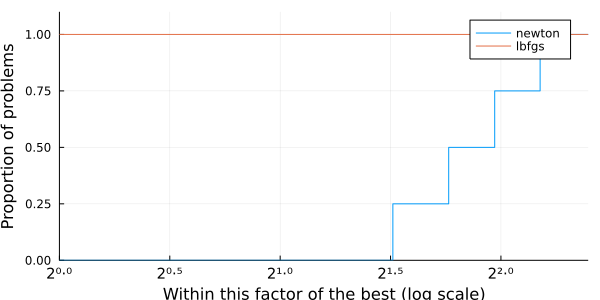
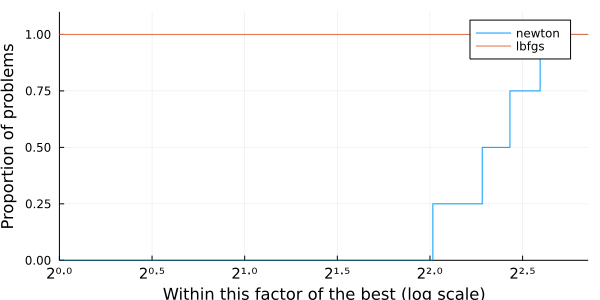
Deploying to gh-pages from  @ dcdb9bae952de26ad7f4052e1809d3c5ec10b59e 🚀

diff --git a/index.html b/index.html
@@ -8,7 +8,7 @@ contour&#40;-2:0.02:2, -0.5:0.02:1.5, &#40;x,y&#41; -&gt; &#40;x - 1&#41;^2 &#43
 nlp &#61; ADNLPModel&#40;
   x -&gt; &#40;x&#91;1&#93; - 1&#41;^2 &#43; 4 * &#40;x&#91;2&#93; - x&#91;1&#93;^2&#41;^2, # function
   &#91;-1.2; 1.0&#93; # starting point
-&#41;</code></pre><pre><code class="plaintext code-output">ADNLPModel - Model with automatic differentiation backend ADNLPModels.ForwardDiffAD{ForwardDiff.GradientConfig{ForwardDiff.Tag{var"#3#4", Float64}, Float64, 2, Vector{ForwardDiff.Dual{ForwardDiff.Tag{var"#3#4", Float64}, Float64, 2}}}}(3, 0, ForwardDiff.GradientConfig{ForwardDiff.Tag{var"#3#4", Float64}, Float64, 2, Vector{ForwardDiff.Dual{ForwardDiff.Tag{var"#3#4", Float64}, Float64, 2}}}((Partials(1.0, 0.0), Partials(0.0, 1.0)), ForwardDiff.Dual{ForwardDiff.Tag{var"#3#4", Float64}, Float64, 2}[Dual{ForwardDiff.Tag{var"#3#4", Float64}}(1.6e-322,2.0e-323,6.9369376057199e-310), Dual{ForwardDiff.Tag{var"#3#4", Float64}}(6.9368770046127e-310,6.93687723239753e-310,1.55557e-319)]))
+&#41;</code></pre><pre><code class="plaintext code-output">ADNLPModel - Model with automatic differentiation backend ADNLPModels.ForwardDiffAD{ForwardDiff.GradientConfig{ForwardDiff.Tag{var"#3#4", Float64}, Float64, 2, Vector{ForwardDiff.Dual{ForwardDiff.Tag{var"#3#4", Float64}, Float64, 2}}}}(3, 0, ForwardDiff.GradientConfig{ForwardDiff.Tag{var"#3#4", Float64}, Float64, 2, Vector{ForwardDiff.Dual{ForwardDiff.Tag{var"#3#4", Float64}, Float64, 2}}}((Partials(1.0, 0.0), Partials(0.0, 1.0)), ForwardDiff.Dual{ForwardDiff.Tag{var"#3#4", Float64}, Float64, 2}[Dual{ForwardDiff.Tag{var"#3#4", Float64}}(0.0,6.9153200153722e-310,6.9153200153722e-310), Dual{ForwardDiff.Tag{var"#3#4", Float64}}(0.0,6.9153199943155e-310,6.9153199943155e-310)]))
   Problem name: Generic
    All variables: ████████████████████ 2      All constraints: ⋅⋅⋅⋅⋅⋅⋅⋅⋅⋅⋅⋅⋅⋅⋅⋅⋅⋅⋅⋅ 0     
             free: ████████████████████ 2                 free: ⋅⋅⋅⋅⋅⋅⋅⋅⋅⋅⋅⋅⋅⋅⋅⋅⋅⋅⋅⋅ 0     
@@ -265,18 +265,18 @@ stats &#61; bmark_solvers&#40;solvers, problems&#41;</code></pre><pre><code clas
  Row │ id     name     nvar   ncon   nequ   status       objective     elapsed_time  iter   dual_feas  primal_feas  neval_obj  neval_grad  neval_cons  neval_cons_lin  neval_cons_nln  neval_jcon  neval_jgrad  neval_jac  neval_jac_lin  neval_jac_nln  neval_jprod  neval_jprod_lin  neval_jprod_nln  neval_jtprod  neval_jtprod_lin  neval_jtprod_nln  neval_hess  neval_hprod  neval_jhess  neval_jhprod  neval_residual  neval_jac_residual  neval_jprod_residual  neval_jtprod_residual  neval_hess_residual  neval_jhess_residual  neval_hprod_residual  extrainfo
      │ Int64  String   Int64  Int64  Int64  Symbol       Float64       Float64       Int64  Float64    Float64      Int64      Int64       Int64       Int64           Int64           Int64       Int64        Int64      Int64          Int64          Int64        Int64            Int64            Int64         Int64             Int64             Int64       Int64        Int64        Int64         Int64           Int64               Int64                 Int64                  Int64                Int64                 Int64                 String
 ─────┼────────────────────────────────────────────────────────────────────────────────────────────────────────────────────────────────────────────────────────────────────────────────────────────────────────────────────────────────────────────────────────────────────────────────────────────────────────────────────────────────────────────────────────────────────────────────────────────────────────────────────────────────────────────────────────────────────────────────────────────────────────────────────────────────────────────────────────────────────
-   1 │     1  Generic      2      0      0  first_order   2.46519e-31      0.500297      1        Inf          0.0          3           4           0               0               0           0            0          0              0              0            0                0                0             0                 0                 0           1            0            0             0               0                   0                     0                      0                    0                     0                     0
-   2 │     2  Generic      2      0      0  first_order   3.74398e-21      0.578367     21        Inf          0.0         50          64           0               0               0           0            0          0              0              0            0                0                0             0                 0                 0          21            0            0             0               0                   0                     0                      0                    0                     0                     0
-   3 │     3  Generic      2      0      0  max_iter     -8.36356          0.463909    100        Inf          0.0        201         301           0               0               0           0            0          0              0              0            0                0                0             0                 0                 0         100            0            0             0               0                   0                     0                      0                    0                     0                     0
-   4 │     4  Generic      2      0      0  first_order   1.43195          0.540424      5        Inf          0.0         12          16           0               0               0           0            0          0              0              0            0                0                0             0                 0                 0           5            0            0             0               0                   0                     0                      0                    0                     0                     0
+   1 │     1  Generic      2      0      0  first_order   2.46519e-31      0.5863        1        Inf          0.0          3           4           0               0               0           0            0          0              0              0            0                0                0             0                 0                 0           1            0            0             0               0                   0                     0                      0                    0                     0                     0
+   2 │     2  Generic      2      0      0  first_order   3.74398e-21      0.682246     21        Inf          0.0         50          64           0               0               0           0            0          0              0              0            0                0                0             0                 0                 0          21            0            0             0               0                   0                     0                      0                    0                     0                     0
+   3 │     3  Generic      2      0      0  max_iter     -8.36356          0.572297    100        Inf          0.0        201         301           0               0               0           0            0          0              0              0            0                0                0             0                 0                 0         100            0            0             0               0                   0                     0                      0                    0                     0                     0
+   4 │     4  Generic      2      0      0  first_order   1.43195          0.617975      5        Inf          0.0         12          16           0               0               0           0            0          0              0              0            0                0                0             0                 0                 0           5            0            0             0               0                   0                     0                      0                    0                     0                     0
   :lbfgs => 4×39 DataFrame
  Row │ id     name     nvar   ncon   nequ   status       objective     elapsed_time  iter   dual_feas   primal_feas  neval_obj  neval_grad  neval_cons  neval_cons_lin  neval_cons_nln  neval_jcon  neval_jgrad  neval_jac  neval_jac_lin  neval_jac_nln  neval_jprod  neval_jprod_lin  neval_jprod_nln  neval_jtprod  neval_jtprod_lin  neval_jtprod_nln  neval_hess  neval_hprod  neval_jhess  neval_jhprod  neval_residual  neval_jac_residual  neval_jprod_residual  neval_jtprod_residual  neval_hess_residual  neval_jhess_residual  neval_hprod_residual  extrainfo
      │ Int64  String   Int64  Int64  Int64  Symbol       Float64       Float64       Int64  Float64     Float64      Int64      Int64       Int64       Int64           Int64           Int64       Int64        Int64      Int64          Int64          Int64        Int64            Int64            Int64         Int64             Int64             Int64       Int64        Int64        Int64         Int64           Int64               Int64                 Int64                  Int64                Int64                 Int64                 String
 ─────┼─────────────────────────────────────────────────────────────────────────────────────────────────────────────────────────────────────────────────────────────────────────────────────────────────────────────────────────────────────────────────────────────────────────────────────────────────────────────────────────────────────────────────────────────────────────────────────────────────────────────────────────────────────────────────────────────────────────────────────────────────────────────────────────────────────────────────────────────────────
-   1 │     1  Generic      2      0      0  first_order   2.26824e-16   3.8147e-5        8  5.28297e-8          0.0         11          10           0               0               0           0            0          0              0              0            0                0                0             0                 0                 0           0            0            0             0               0                   0                     0                      0                    0                     0                     0
-   2 │     2  Generic      2      0      0  first_order   1.44561e-17   0.000110149     39  8.41132e-8          0.0         52          45           0               0               0           0            0          0              0              0            0                0                0             0                 0                 0           0            0            0             0               0                   0                     0                      0                    0                     0                     0
-   3 │     3  Generic      2      0      0  first_order  -8.37235       3.40939e-5      12  1.60958e-9          0.0         17          15           0               0               0           0            0          0              0              0            0                0                0             0                 0                 0           0            0            0             0               0                   0                     0                      0                    0                     0                     0
-   4 │     4  Generic      2      0      0  first_order   1.43195       3.60012e-5       9  4.18646e-9          0.0         11          11           0               0               0           0            0          0              0              0            0                0                0             0                 0                 0           0            0            0             0               0                   0                     0                      0                    0                     0                     0</code></pre>
+   1 │     1  Generic      2      0      0  first_order   2.26824e-16    3.8147e-5       8  5.28297e-8          0.0         11          10           0               0               0           0            0          0              0              0            0                0                0             0                 0                 0           0            0            0             0               0                   0                     0                      0                    0                     0                     0
+   2 │     2  Generic      2      0      0  first_order   1.44561e-17    8.51154e-5     39  8.41132e-8          0.0         52          45           0               0               0           0            0          0              0              0            0                0                0             0                 0                 0           0            0            0             0               0                   0                     0                      0                    0                     0                     0
+   3 │     3  Generic      2      0      0  first_order  -8.37235        2.69413e-5     12  1.60958e-9          0.0         17          15           0               0               0           0            0          0              0              0            0                0                0             0                 0                 0           0            0            0             0               0                   0                     0                      0                    0                     0                     0
+   4 │     4  Generic      2      0      0  first_order   1.43195        4.31538e-5      9  4.18646e-9          0.0         11          11           0               0               0           0            0          0              0              0            0                0                0             0                 0                 0           0            0            0             0               0                   0                     0                      0                    0                     0                     0</code></pre>
 <p>The results is a Dictionary of Symbols to DataFrame tables.</p>
 <pre><code class=language-julia >@show typeof&#40;stats&#41;
 @show keys&#40;stats&#41;</code></pre><pre><code class="plaintext code-output">typeof(stats) = Dict{Symbol, DataFrames.DataFrame}
@@ -287,10 +287,10 @@ keys(stats) = [:newton, :lbfgs]
 pretty_stats&#40;stats&#91;:newton&#93;&#91;&#33;, cols&#93;&#41;</code></pre><pre><code class="plaintext code-output">┌─────────┬─────────────┬───────────┬──────────────┬────────┐
 │    name │      status │ objective │ elapsed_time │   iter │
 ├─────────┼─────────────┼───────────┼──────────────┼────────┤
-│ Generic │ first_order │  2.47e-31 │     5.00e-01 │      1 │
-│ Generic │ first_order │  3.74e-21 │     5.78e-01 │     21 │
-│ Generic │    max_iter │ -8.36e+00 │     4.64e-01 │    100 │
-│ Generic │ first_order │  1.43e+00 │     5.40e-01 │      5 │
+│ Generic │ first_order │  2.47e-31 │     5.86e-01 │      1 │
+│ Generic │ first_order │  3.74e-21 │     6.82e-01 │     21 │
+│ Generic │    max_iter │ -8.36e+00 │     5.72e-01 │    100 │
+│ Generic │ first_order │  1.43e+00 │     6.18e-01 │      5 │
 └─────────┴─────────────┴───────────┴──────────────┴────────┘
 </code></pre>
 <p>We can also create a similar table in .tex format, using something like</p>
@@ -496,7 +496,7 @@ performance_profile&#40;stats, cost&#41;</code></pre>
     <footer class=footer >
       <div class="content has-text-centered is-small">
         &copy; Abel Soares Siqueira. <br>
-        Last modified: May 15, 2022.<br>
+        Last modified: May 22, 2022.<br>
         <a ckass=link  href="https://github.com/jso-docs/">jso-docs at GitHub</a>
       </div>
     </footer>
